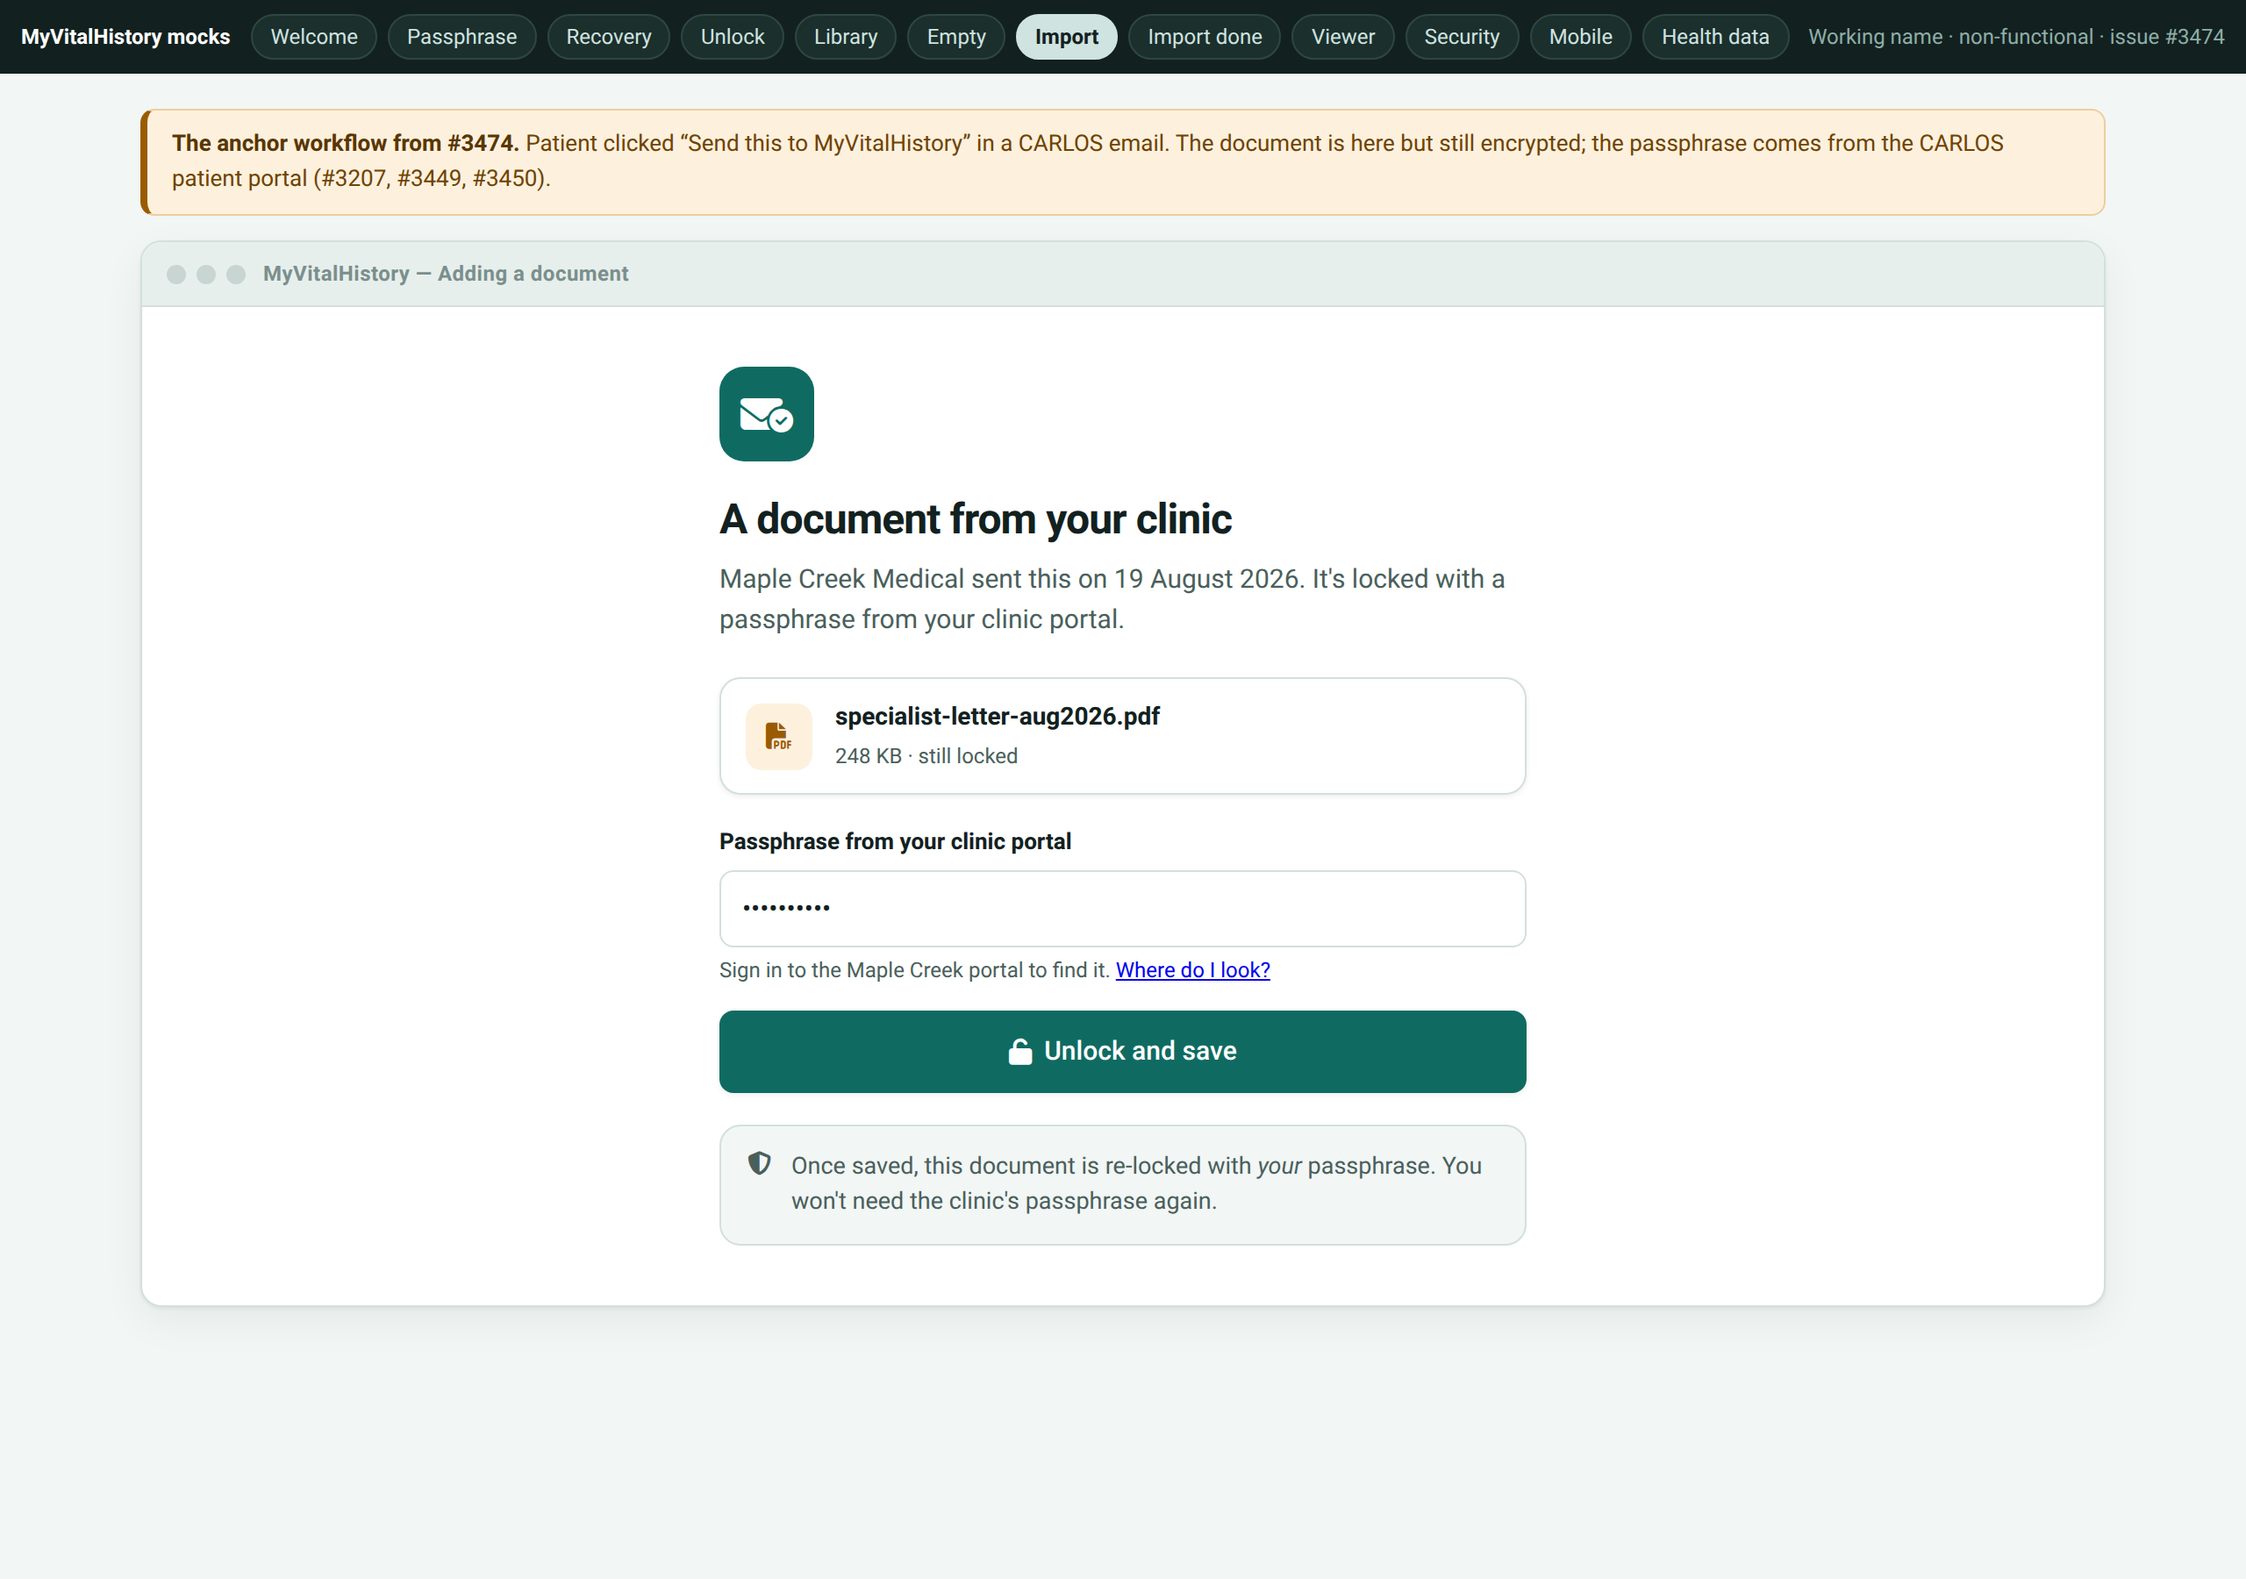
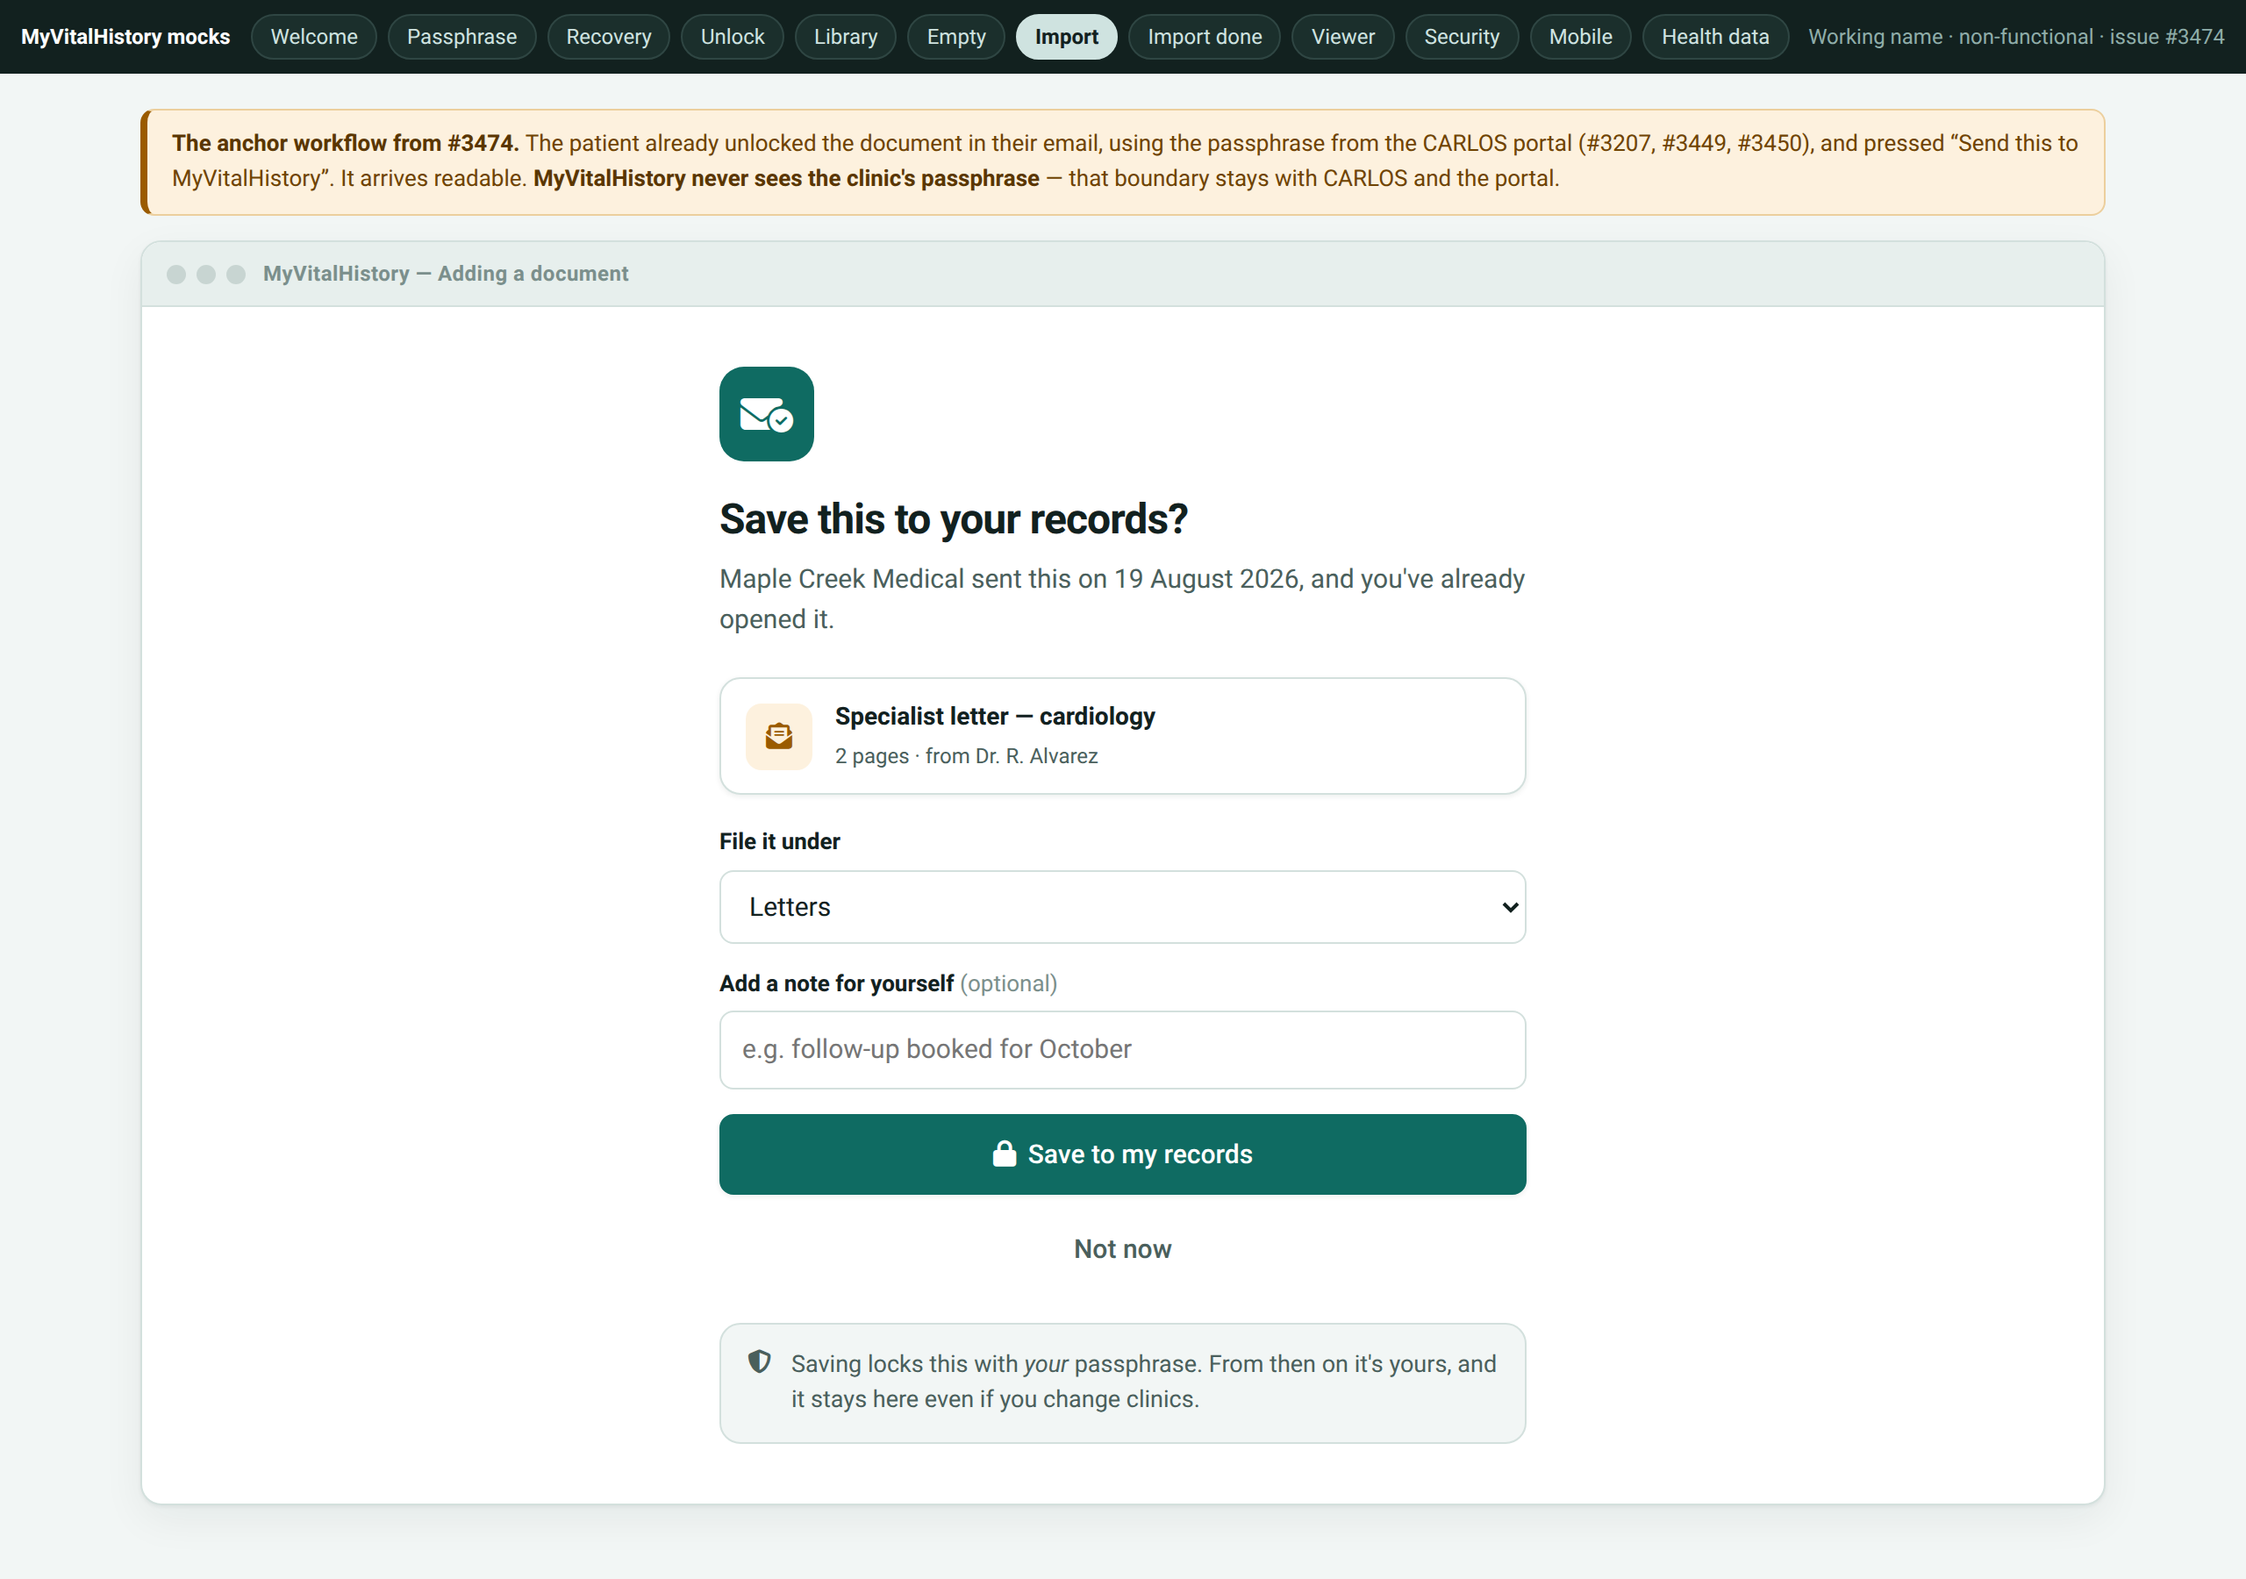
design(myvitalhistory): correct the import flow to match the intended handoff
The mocks showed a document arriving in the vault still encrypted, with
MyVitalHistory prompting for the clinic's portal passphrase. That is not the
flow described on #3474.

The intended sequence is that the patient unlocks the emailed document in
their email, using the passphrase the CARLOS portal supplies, and only then
presses "Send this to MyVitalHistory". The document therefore arrives
readable, and the import screen's job is to confirm and file it rather than
to decrypt it.

This keeps a boundary worth stating explicitly: MyVitalHistory never handles
the clinic's key material. Decryption stays with CARLOS and the portal
(#3207, #3449, #3450). It also means nothing in the vault is ever in a
locked-and-unopenable state — once the vault itself is open, everything in it
is readable.

- rewrite the import screen as confirm-and-file, with category and note
- remove the locked "Waiting for you" row from the library and phone list
- rename the "Waiting" sidebar entry to "Recently added", since nothing waits
- drop the duplicated note field from the confirmation screen
- update the captions, README, and screenshots to match

Refs #3474

diff --git a/myvitalhistory-mocks/index.html b/myvitalhistory-mocks/index.html
@@ -173,7 +173,7 @@
 
 <!-- ============ 5. LIBRARY ============ -->
 <section class="screen" id="library">
-  <div class="screen-caption"><strong>Home screen.</strong> Newest first, grouped by recency, source clinic always visible. One row is still locked &mdash; it arrived by email but the portal passphrase hasn't been entered yet.</div>
+  <div class="screen-caption"><strong>Home screen.</strong> Newest first, grouped by recency, source clinic always visible. Nothing here is ever locked &mdash; documents are unlocked in the email before they are sent across, so everything in the vault is readable once the vault itself is open.</div>
   <div class="app">
     <div class="titlebar">
       <div class="dots"><i></i><i></i><i></i></div>
@@ -191,7 +191,7 @@
         </div>
         <nav class="nav">
           <a href="#library" class="selected" data-go="library"><i class="fas fa-folder"></i> All records <span class="count">42</span></a>
-          <a href="#import" data-go="import"><i class="fas fa-inbox"></i> Waiting <span class="count">1</span></a>
+          <a href="#import" data-go="import"><i class="fas fa-inbox"></i> Recently added <span class="count">3</span></a>
           <a href="#library"><i class="fas fa-star"></i> Pinned <span class="count">3</span></a>
           <div class="nav-label">By kind</div>
           <a href="#library"><i class="fas fa-flask"></i> Test results <span class="count">18</span></a>
@@ -230,18 +230,6 @@
           <button class="chip">Prescriptions</button>
           <button class="chip"><i class="fas fa-hospital"></i> Maple Creek Medical</button>
           <button class="chip"><i class="fas fa-calendar"></i> Any date</button>
-        </div>
-
-        <div class="group-label">Waiting for you</div>
-        <div class="docs">
-          <button class="doc" data-go="import">
-            <span class="doc-icon letter"><i class="fas fa-lock"></i></span>
-            <span class="doc-main">
-              <span class="doc-title">Document from Maple Creek Medical</span>
-              <span class="doc-meta"><span class="tag locked">Locked</span> Needs the passphrase from your clinic portal</span>
-            </span>
-            <span class="doc-side">Today<br>9:12 AM</span>
-          </button>
         </div>
 
         <div class="group-label">This month</div>
@@ -316,7 +304,7 @@
         </div>
         <nav class="nav">
           <a href="#empty" class="selected"><i class="fas fa-folder"></i> All records <span class="count">0</span></a>
-          <a href="#empty"><i class="fas fa-inbox"></i> Waiting</a>
+          <a href="#empty"><i class="fas fa-inbox"></i> Recently added</a>
           <div class="nav-label">Settings</div>
           <a href="#security" data-go="security"><i class="fas fa-shield-halved"></i> Security &amp; backup</a>
         </nav>
@@ -336,33 +324,44 @@
 
 <!-- ============ 7. IMPORT ============ -->
 <section class="screen" id="import">
-  <div class="screen-caption"><strong>The anchor workflow from #3474.</strong> Patient clicked &ldquo;Send this to MyVitalHistory&rdquo; in a CARLOS email. The document is here but still encrypted; the passphrase comes from the CARLOS patient portal (#3207, #3449, #3450).</div>
+  <div class="screen-caption"><strong>The anchor workflow from #3474.</strong> The patient already unlocked the document in their email, using the passphrase from the CARLOS portal (#3207, #3449, #3450), and pressed &ldquo;Send this to MyVitalHistory&rdquo;. It arrives readable. <strong>MyVitalHistory never sees the clinic's passphrase</strong> &mdash; that boundary stays with CARLOS and the portal.</div>
   <div class="app">
     <div class="titlebar"><div class="dots"><i></i><i></i><i></i></div><span class="title">MyVitalHistory &mdash; Adding a document</span></div>
     <div class="centred">
       <div class="big-mark"><i class="fas fa-envelope-circle-check"></i></div>
-      <h1>A document from your clinic</h1>
-      <p class="lede">Maple Creek Medical sent this on 19 August 2026. It's locked with a passphrase from your clinic portal.</p>
+      <h1>Save this to your records?</h1>
+      <p class="lede">Maple Creek Medical sent this on 19 August 2026, and you've already opened it.</p>
 
       <div class="doc" style="margin-bottom:18px">
-        <span class="doc-icon letter"><i class="fas fa-file-pdf"></i></span>
+        <span class="doc-icon letter"><i class="fas fa-envelope-open-text"></i></span>
         <span class="doc-main">
-          <span class="doc-title">specialist-letter-aug2026.pdf</span>
-          <span class="doc-meta">248 KB &middot; still locked</span>
+          <span class="doc-title">Specialist letter &mdash; cardiology</span>
+          <span class="doc-meta">2 pages &middot; from Dr. R. Alvarez</span>
         </span>
       </div>
 
       <label class="field">
-        <span>Passphrase from your clinic portal</span>
-        <input type="password" value="&bull;&bull;&bull;&bull;&bull;&bull;&bull;&bull;&bull;&bull;">
-        <span class="hint">Sign in to the Maple Creek portal to find it. <a href="#">Where do I look?</a></span>
+        <span>File it under</span>
+        <select>
+          <option selected>Letters</option>
+          <option>Test results</option>
+          <option>Imaging</option>
+          <option>Prescriptions</option>
+          <option>Something else</option>
+        </select>
       </label>
 
-      <button class="btn primary big"><i class="fas fa-unlock"></i><span>Unlock and save</span></button>
+      <label class="field">
+        <span>Add a note for yourself <span style="font-weight:400;color:var(--ink-faint)">(optional)</span></span>
+        <input type="text" placeholder="e.g. follow-up booked for October">
+      </label>
+
+      <button class="btn primary big"><i class="fas fa-lock"></i><span>Save to my records</span></button>
+      <button class="btn ghost big" style="margin-top:8px"><span>Not now</span></button>
 
       <div class="note plain" style="margin-top:18px;margin-bottom:0">
         <i class="fas fa-shield-halved"></i>
-        <div>Once saved, this document is re-locked with <em>your</em> passphrase. You won't need the clinic's passphrase again.</div>
+        <div>Saving locks this with <em>your</em> passphrase. From then on it's yours, and it stays here even if you change clinics.</div>
       </div>
     </div>
   </div>
@@ -370,7 +369,7 @@
 
 <!-- ============ 8. IMPORT DONE ============ -->
 <section class="screen" id="import-done">
-  <div class="screen-caption"><strong>Confirmation.</strong> Says what was filed and where. The re-encryption note matters: it is the moment custody moves from the clinic's passphrase to the patient's.</div>
+  <div class="screen-caption"><strong>Confirmation.</strong> Says what was filed and where. This is the moment custody moves: the clinic sent a copy, and from here the patient's own passphrase is the only thing that opens it.</div>
   <div class="app">
     <div class="titlebar"><div class="dots"><i></i><i></i><i></i></div><span class="title">MyVitalHistory</span></div>
     <div class="centred">
@@ -385,11 +384,6 @@
           <span class="doc-meta">Filed under <strong>Letters</strong> &middot; 19 Aug 2026 &middot; Maple Creek Medical</span>
         </span>
       </div>
-
-      <label class="field">
-        <span>Add a note for yourself <span style="font-weight:400;color:var(--ink-faint)">(optional)</span></span>
-        <input type="text" placeholder="e.g. follow-up booked for October">
-      </label>
 
       <button class="btn primary big" data-go="viewer"><i class="fas fa-eye"></i><span>Read it now</span></button>
       <button class="btn ghost big" style="margin-top:8px" data-go="library"><i class="fas fa-folder"></i><span>Back to my records</span></button>
@@ -417,7 +411,7 @@
         </div>
         <nav class="nav">
           <a href="#library" data-go="library"><i class="fas fa-folder"></i> All records <span class="count">42</span></a>
-          <a href="#library"><i class="fas fa-inbox"></i> Waiting <span class="count">1</span></a>
+          <a href="#library"><i class="fas fa-inbox"></i> Recently added <span class="count">3</span></a>
           <div class="nav-label">By kind</div>
           <a href="#library" class="selected"><i class="fas fa-flask"></i> Test results <span class="count">18</span></a>
           <a href="#library"><i class="fas fa-envelope-open-text"></i> Letters <span class="count">11</span></a>
@@ -497,7 +491,7 @@
         </div>
         <nav class="nav">
           <a href="#library" data-go="library"><i class="fas fa-folder"></i> All records <span class="count">42</span></a>
-          <a href="#library"><i class="fas fa-inbox"></i> Waiting <span class="count">1</span></a>
+          <a href="#library"><i class="fas fa-inbox"></i> Recently added <span class="count">3</span></a>
           <div class="nav-label">Settings</div>
           <a href="#security" class="selected"><i class="fas fa-shield-halved"></i> Security &amp; backup</a>
           <a href="#health" data-go="health"><i class="fas fa-heart"></i> Health data</a>
@@ -605,10 +599,10 @@
           <div class="search" style="margin-bottom:12px"><i class="fas fa-magnifying-glass"></i><input type="text" placeholder="Search"></div>
           <div class="docs">
             <button class="doc">
-              <span class="doc-icon letter"><i class="fas fa-lock"></i></span>
+              <span class="doc-icon letter"><i class="fas fa-envelope-open-text"></i></span>
               <span class="doc-main">
-                <span class="doc-title">From Maple Creek Medical</span>
-                <span class="doc-meta"><span class="tag locked">Locked</span> Tap to unlock</span>
+                <span class="doc-title">Specialist letter &mdash; cardiology</span>
+                <span class="doc-meta"><span class="tag new">New</span> 19 Aug 2026 &middot; Dr. Alvarez</span>
               </span>
             </button>
             <button class="doc">

diff --git a/myvitalhistory-mocks/README.md b/myvitalhistory-mocks/README.md
@@ -31,7 +31,7 @@ with `?screen=`, or from the switcher bar at the top:
 4. **Unlock** — returning-user unlock, passphrase or biometric
 5. **Library** — the home screen, with one document still locked
 6. **Empty** — first-run empty state, explaining the CARLOS handoff
-7. **Import** — the "Send this to MyVitalHistory" flow from a CARLOS email
+7. **Import** — the "Send this to MyVitalHistory" flow, after the patient unlocked the document in their email
 8. **Import done** — confirmation, and the handover of custody
 9. **Viewer** — reading a document, with a provenance panel
 10. **Security** — encryption, recovery, backup, and auto-lock settings
@@ -52,10 +52,15 @@ reassuring one.
 iCloud copy is unreadable by Apple. That is the design decision recorded on #3474, and it is
 what makes automatic OS backup acceptable for PHI leaving the country.
 
-**The CARLOS handoff is a custody transfer, not a download.** Screens 7 and 8 show a document
-arriving locked under the *clinic's* passphrase (from the portal — #3207, #3449, #3450) and
-being re-locked under the *patient's*. After that the clinic's passphrase is irrelevant. Making
-that moment explicit is the point of the flow.
+**The CARLOS handoff is a custody transfer, not a download.** The patient unlocks the emailed
+document *in their email*, using the passphrase the CARLOS portal gives them (#3207, #3449,
+#3450), and only then presses "Send this to MyVitalHistory". So the document arrives readable and
+is locked again under the patient's own passphrase.
+
+**MyVitalHistory never handles the clinic's passphrase.** That boundary stays with CARLOS and the
+portal, which keeps the app out of the clinic's key material entirely. It also means nothing in
+the vault is ever in a locked-and-unopenable state — once the vault is open, everything in it is
+readable.
 
 **Provenance is a feature.** A patient-held record is only useful if its origin is beyond
 doubt, so the viewer keeps sender, provider, arrival date, and filing date visible rather
